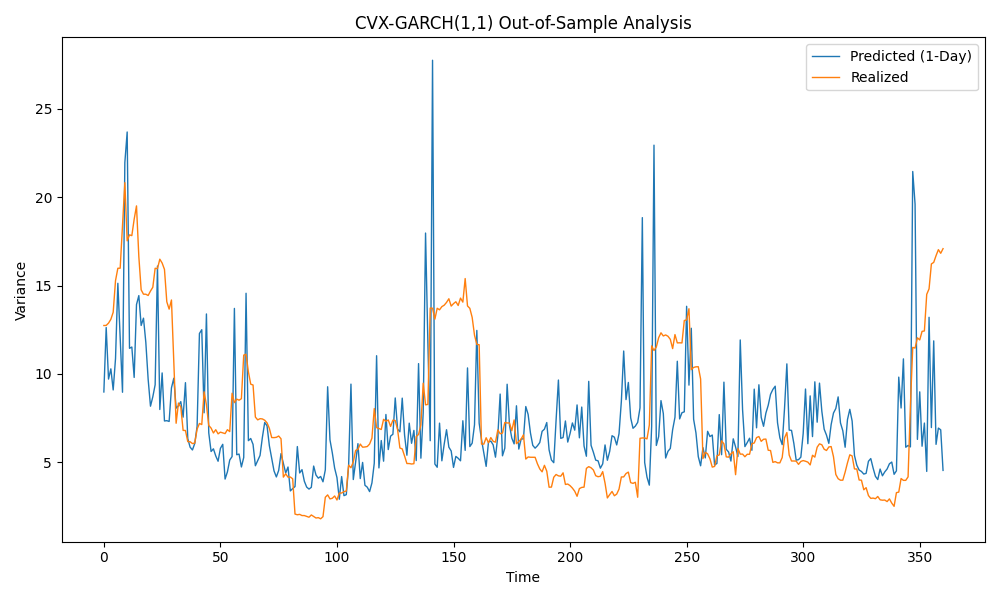
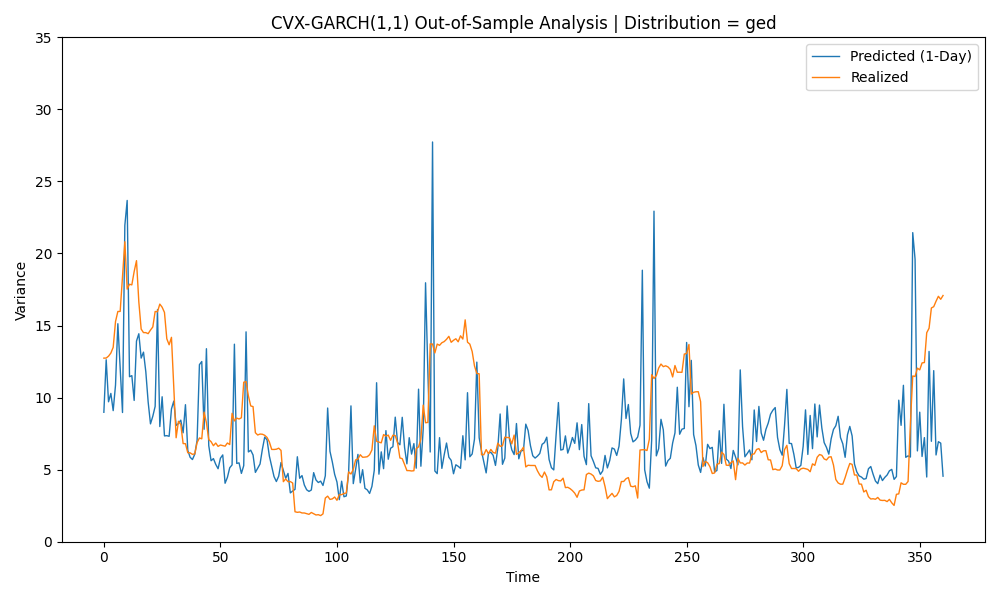
Updated some figures

diff --git a/main.py b/main.py
@@ -17,9 +17,9 @@ warnings.filterwarnings('ignore')
 
 
 # === Adjustable parameters ===
-model_type = 'RT-GARCH' 
+model_type = 'CVX-GARCH' 
 asset = 'BTC' 
-dist = 'normal'
+dist = 'ged'
 horizon = 1 
 window = 1000 
 
